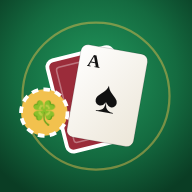
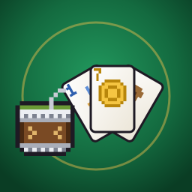
Renombre a Costumbres Argentinas e ícono nuevo
Marca visible: "Luckjack" -> "Costumbres Argentinas" en el título, la PWA
(manifest), el modal de instalación y los textos de compartir. El dominio y
las claves de localStorage (prefijo luckjack.) no se tocan, así que nadie
pierde récords, progreso ni rankings. Caché del service worker a v31.

Ícono de la app: el mate del Viejo (grande, de protagonista) y tres cartas
bravas al lado (1 espada, 7 oro, 6 basto) sobre el paño con el aro dorado.
Regenerados icon.svg y los PNG (512, 192, maskable-512, apple-touch) con
tools/make-icon.js, que reusa el pixel art de js/pixel.js.

diff --git a/tools/make-icon.js b/tools/make-icon.js
@@ -1,0 +1,38 @@
+// Genera el ícono de la app (mate del Viejo + tres cartas bravas: 1 espada, 7 oro, 6 basto)
+// reutilizando el pixel art real de js/pixel.js. Escribe icons/icon.svg y, en el directorio que
+// le pases como argumento, dos wrappers HTML a pantalla completa para rasterizar con Chrome headless.
+//   node tools/make-icon.js <dir-de-salida-para-los-html>
+const fs = require('fs');
+const path = require('path');
+const P = require('../js/pixel.js');
+
+// Dígitos 3x5 para el número de cada carta.
+const D = { 1: ['.#.', '##.', '.#.', '.#.', '###'], 7: ['###', '..#', '.#.', '.#.', '.#.'], 6: ['.##', '#..', '##.', '#.#', '.##'] };
+const place = (s, x, y, w, h) => s.replace('<svg', `<svg x="${x}" y="${y}" width="${w}" height="${h}"`);
+
+function card(n, s, rot) {
+  const col = P.SPANISH_COLORS[s];
+  const pip = place(P.spanishSuit(s), -37, -140, 74, 74);
+  const num = `<svg x="-50" y="-170" width="20" height="34" viewBox="0 0 3 5" shape-rendering="crispEdges">${P.rects(D[n], { '#': col })}</svg>`;
+  return `<g transform="translate(300 352) rotate(${rot})"><rect x="-58" y="-176" width="116" height="176" rx="12" fill="url(#card)" stroke="#1e1a24" stroke-width="6"/>${num}${pip}</g>`;
+}
+
+function build(maskable) {
+  const mate = place(P.mate('gaucho'), 30, 236, 180, 180); // grande y adelante: el mate es el foco
+  const content = `<circle cx="256" cy="256" r="196" fill="none" stroke="#f2c14e" stroke-opacity="0.45" stroke-width="6"/>`
+    + `${card(1, 'espada', -30)}${card(6, 'basto', 30)}${card(7, 'oro', 0)}${mate}`;
+  // En el maskable el recorte come los bordes: encojo el contenido a la zona segura, el paño llena todo.
+  const inner = maskable ? `<g transform="translate(256 256) scale(0.8) translate(-256 -256)">${content}</g>` : content;
+  return `<svg xmlns="http://www.w3.org/2000/svg" viewBox="0 0 512 512"><defs>`
+    + `<radialGradient id="felt" cx="50%" cy="40%" r="70%"><stop offset="0" stop-color="#22995e"/><stop offset=".6" stop-color="#146b40"/><stop offset="1" stop-color="#0a3d24"/></radialGradient>`
+    + `<linearGradient id="card" x1="0" y1="0" x2="1" y2="1"><stop offset="0" stop-color="#ffffff"/><stop offset="1" stop-color="#ece6d8"/></linearGradient>`
+    + `</defs><rect width="512" height="512" fill="url(#felt)"/>${inner}</svg>`;
+}
+
+const wrap = (svg) => `<!doctype html><meta charset="utf-8"><style>html,body{margin:0;padding:0}svg{display:block;width:100vw;height:100vh}</style>${svg}`;
+
+const outDir = process.argv[2] || '.';
+fs.writeFileSync(path.join(__dirname, '../icons/icon.svg'), build(false) + '\n');
+fs.writeFileSync(path.join(outDir, 'icon-std.html'), wrap(build(false)));
+fs.writeFileSync(path.join(outDir, 'icon-mask.html'), wrap(build(true)));
+console.log('ok: icons/icon.svg + wrappers en', outDir);

diff --git a/index.html b/index.html
@@ -3,8 +3,8 @@
 <head>
   <meta charset="utf-8">
   <meta name="viewport" content="width=device-width, initial-scale=1, viewport-fit=cover">
-  <title>Luckjack</title>
-  <meta name="description" content="Blackjack roguelike: superá la cuota de cada ciclo y comprá bonuses en la tienda.">
+  <title>Costumbres Argentinas</title>
+  <meta name="description" content="Truco argentino y blackjack roguelike en pixel art: historias, ranking global y truco online con amigos.">
   <meta name="theme-color" content="#1a070b">
   <link rel="manifest" href="manifest.webmanifest">
   <link rel="icon" href="icons/icon.svg" type="image/svg+xml">
@@ -13,7 +13,7 @@
   <meta name="apple-mobile-web-app-capable" content="yes">
   <meta name="mobile-web-app-capable" content="yes">
   <meta name="apple-mobile-web-app-status-bar-style" content="black-translucent">
-  <meta name="apple-mobile-web-app-title" content="Luckjack">
+  <meta name="apple-mobile-web-app-title" content="Costumbres Argentinas">
   <link rel="stylesheet" href="css/fonts.css">
   <link rel="stylesheet" href="css/style.css">
 </head>
@@ -21,7 +21,7 @@
   <canvas id="bg" aria-hidden="true"></canvas>
   <div class="app">
   <header class="hud">
-    <h1 class="logo"><span class="l1">LUCK</span><span class="l2">JACK</span></h1>
+    <h1 class="logo"><span class="l1">COSTUMBRES </span><span class="l2">ARGENTINAS</span></h1>
     <div class="blind panel">
       <div class="blind-title">CICLO <b id="cycle">1</b></div>
       <div class="blind-goal">
@@ -182,7 +182,7 @@
 
   <div class="menu" id="menu" hidden>
     <div class="menu-box">
-      <h1 class="logo big-logo"><span class="l1">LUCK</span><span class="l2">JACK</span></h1>
+      <h1 class="logo big-logo"><span class="l1">COSTUMBRES </span><span class="l2">ARGENTINAS</span></h1>
       <p class="tagline">El purgatorio de los timberos</p>
       <div class="menu-chars" id="menu-chars"></div>
       <p class="menu-note" id="menu-note" role="status" hidden></p>
@@ -347,8 +347,8 @@
 
   <div class="overlay" id="install-help" hidden>
     <div class="modal">
-      <h2>📲 Instalar Luckjack</h2>
-      <p>Podés tener Luckjack como una app más en tu celular, con su ícono y sin barra del navegador. También funciona sin internet.</p>
+      <h2>📲 Instalar Costumbres Argentinas</h2>
+      <p>Podés tener Costumbres Argentinas como una app más en tu celular, con su ícono y sin barra del navegador. También funciona sin internet.</p>
       <h3>iPhone / iPad (Safari)</h3>
       <ol class="rules">
         <li>Tocá el botón <b>Compartir</b> (el cuadrado con la flecha ⬆).</li>

diff --git a/js/truco-online.js b/js/truco-online.js
@@ -227,7 +227,7 @@
     code.textContent = v.code;
     const wa = document.createElement('a');
     wa.className = 'btn-link btn-green';
-    wa.href = `https://wa.me/?text=${encodeURIComponent(`¡Te desafío a un truco en Luckjack! Entrá a la sala ${v.code}: ${link}`)}`;
+    wa.href = `https://wa.me/?text=${encodeURIComponent(`¡Te desafío a un truco en Costumbres Argentinas! Entrá a la sala ${v.code}: ${link}`)}`;
     wa.target = '_blank';
     wa.rel = 'noopener';
     wa.textContent = '📲 WhatsApp';
@@ -240,7 +240,7 @@
     if (navigator.share) {
       const share = document.createElement('button');
       share.textContent = 'Compartir';
-      share.onclick = () => navigator.share({ title: 'Luckjack', text: `Truco en la sala ${v.code}`, url: link }).catch(() => {});
+      share.onclick = () => navigator.share({ title: 'Costumbres Argentinas', text: `Truco en la sala ${v.code}`, url: link }).catch(() => {});
       items.push(share);
     }
     box.replaceChildren(...items);

diff --git a/js/truco4-online.js b/js/truco4-online.js
@@ -66,7 +66,7 @@
     const link = ctx.inviteLink(v.code);
     const wa = document.createElement('a');
     wa.className = 'btn-link btn-green';
-    wa.href = `https://wa.me/?text=${encodeURIComponent(`¡Truco de a 4 en Luckjack! Entrá a la sala ${v.code}: ${link}`)}`;
+    wa.href = `https://wa.me/?text=${encodeURIComponent(`¡Truco de a 4 en Costumbres Argentinas! Entrá a la sala ${v.code}: ${link}`)}`;
     wa.target = '_blank';
     wa.rel = 'noopener';
     wa.textContent = '📲 WhatsApp';

diff --git a/sw.js b/sw.js
@@ -1,6 +1,6 @@
 // Service worker: guarda el juego para poder jugar sin internet.
 // Primero intenta la red (así siempre ves la última versión) y si no hay conexión usa la copia guardada.
-const CACHE = 'luckjack-v30';
+const CACHE = 'luckjack-v31';
 const ASSETS = [
   './',
   'index.html',
